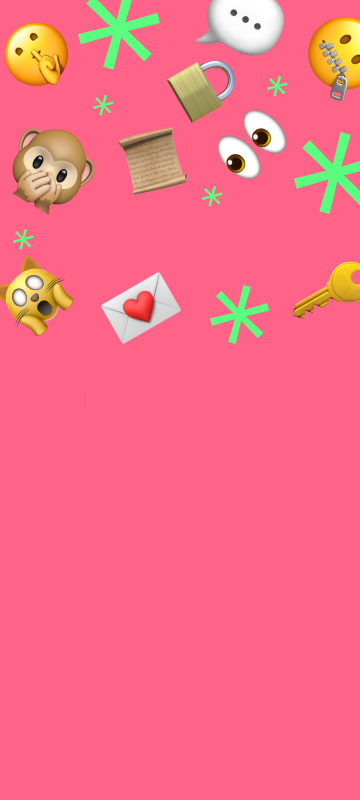
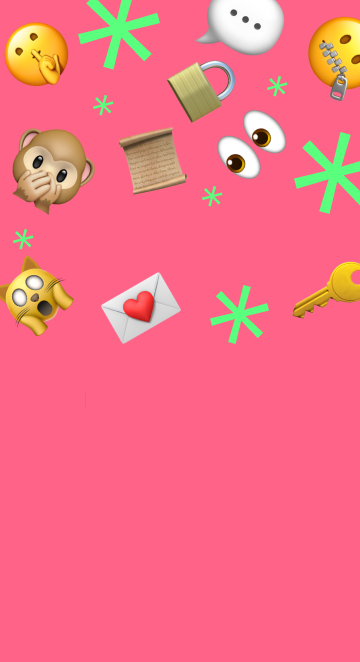
modify dimension of canvas

diff --git a/index.html b/index.html
@@ -79,7 +79,7 @@
 					</div>
 				</div>
 			</div>
-			<div class="messaggio">
+			<!-- <div class="messaggio">
 				<div class="riga">
 					<div class="colonna-immagine">
 						<img id="stress" src="src/img/stress.jpeg"></img>
@@ -92,7 +92,7 @@
 						<p class="ora">10.32</p>
 					</div>
 				</div>
-			</div>
+			</div> -->
 		</div>
 	</section>
 </body>

diff --git a/src/style.css b/src/style.css
@@ -14,7 +14,7 @@ html {
 
 #container {
 	width: 360px;
-	height: 800px;
+	height: 662px;
 	background-color: rgb(255, 99, 136);
 	/* padding: 20px; */
 	display: flex;
@@ -42,7 +42,7 @@ html {
 
 #rettangolo {
 	width: 360px;
-	height: 480px;
+	height: 350px;
 	background-color: white;
 	position: absolute;
 	bottom: 0;
